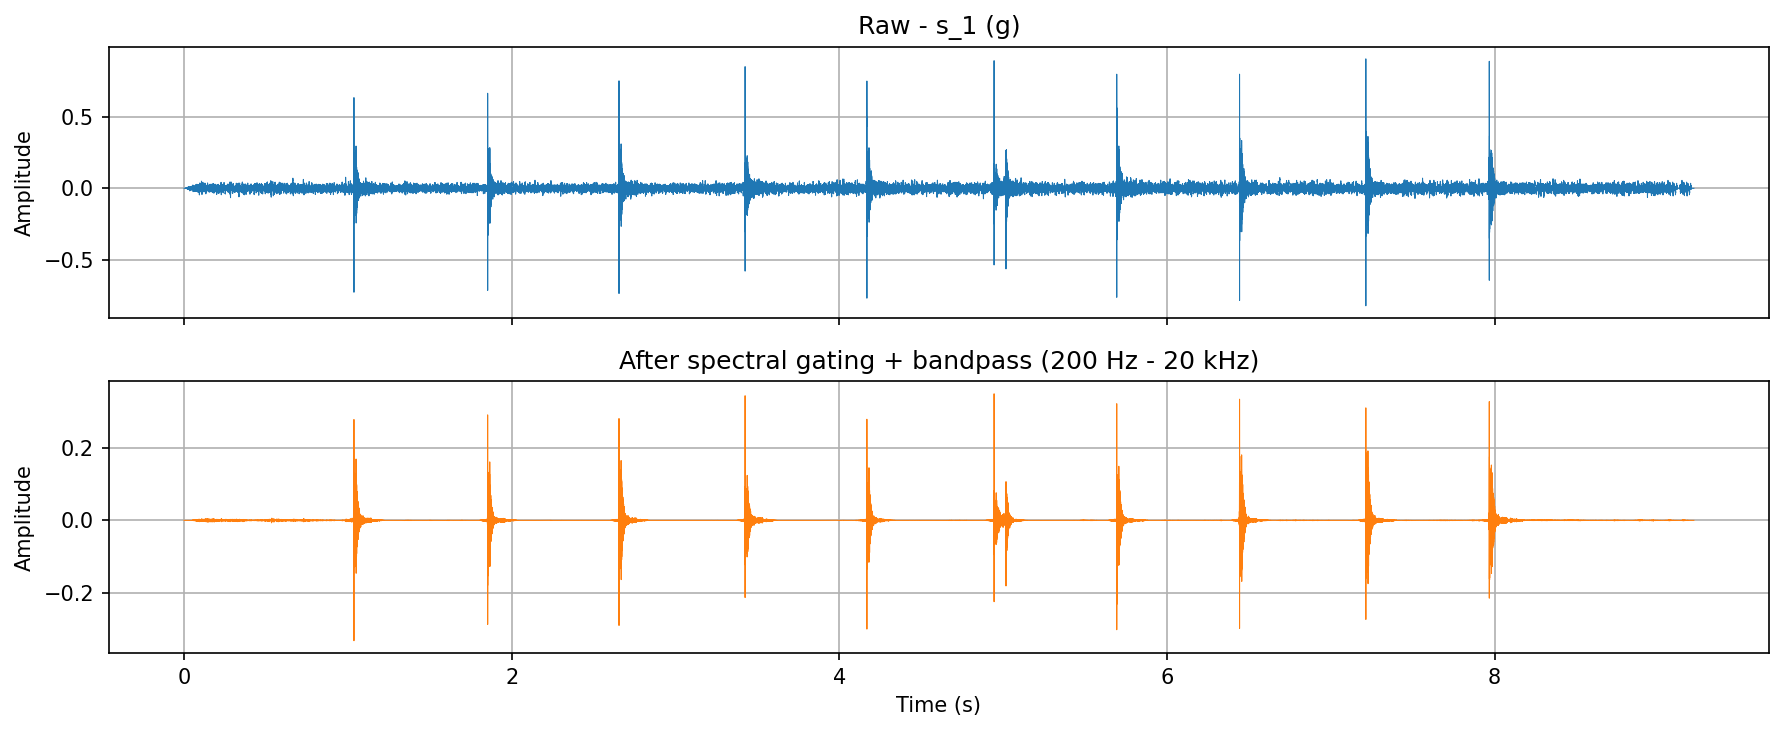
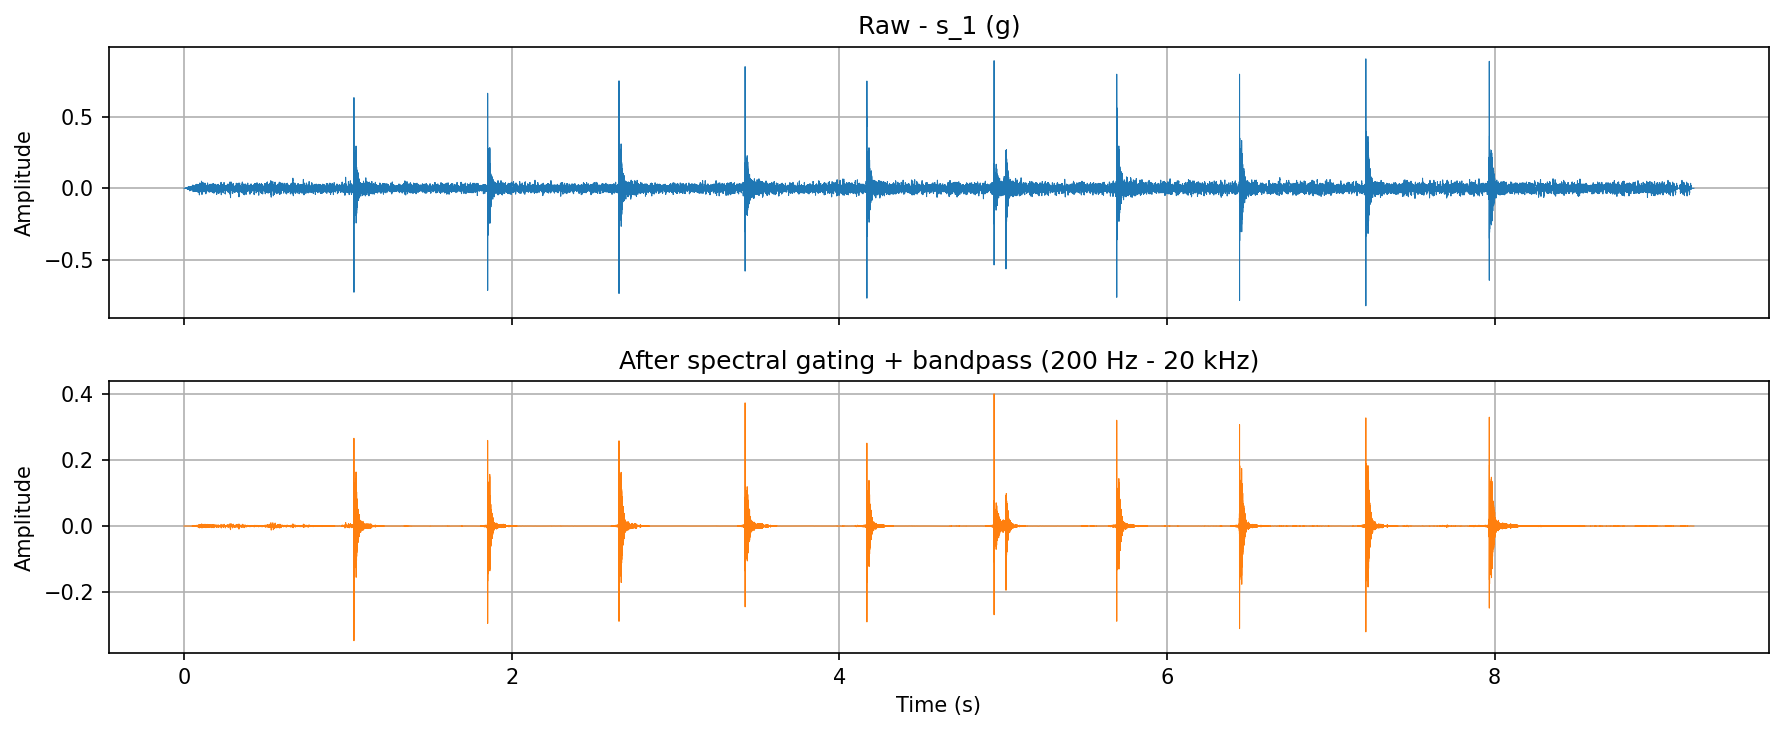
sync

diff --git a/Machine Learning/HW2/hw2.py b/Machine Learning/HW2/hw2.py
@@ -54,17 +54,11 @@ NOISE_SAMPLE_DURATION = (
 )
 
 
-def bandpass_filter(audio, sr, low_hz=200, high_hz=20000, order=5):
-    sos = butter(order, [low_hz, high_hz], btype="bandpass", fs=sr, output="sos")
-    return sosfilt(sos, audio)
-
-
 for num, info in recordings.items():
     audio, _ = librosa.load(info["wav_path"], sr=SR, mono=True)
     noise_sample = audio[: int(NOISE_SAMPLE_DURATION * SR)]
     audio_nr = nr.reduce_noise(y=audio, sr=SR, y_noise=noise_sample)
-    audio_clean = bandpass_filter(audio_nr, SR)
-    recordings[num]["audio"] = audio_clean
+    recordings[num]["audio"] = audio_nr
 
 print(f"Denoised {len(recordings)} recordings")
 
